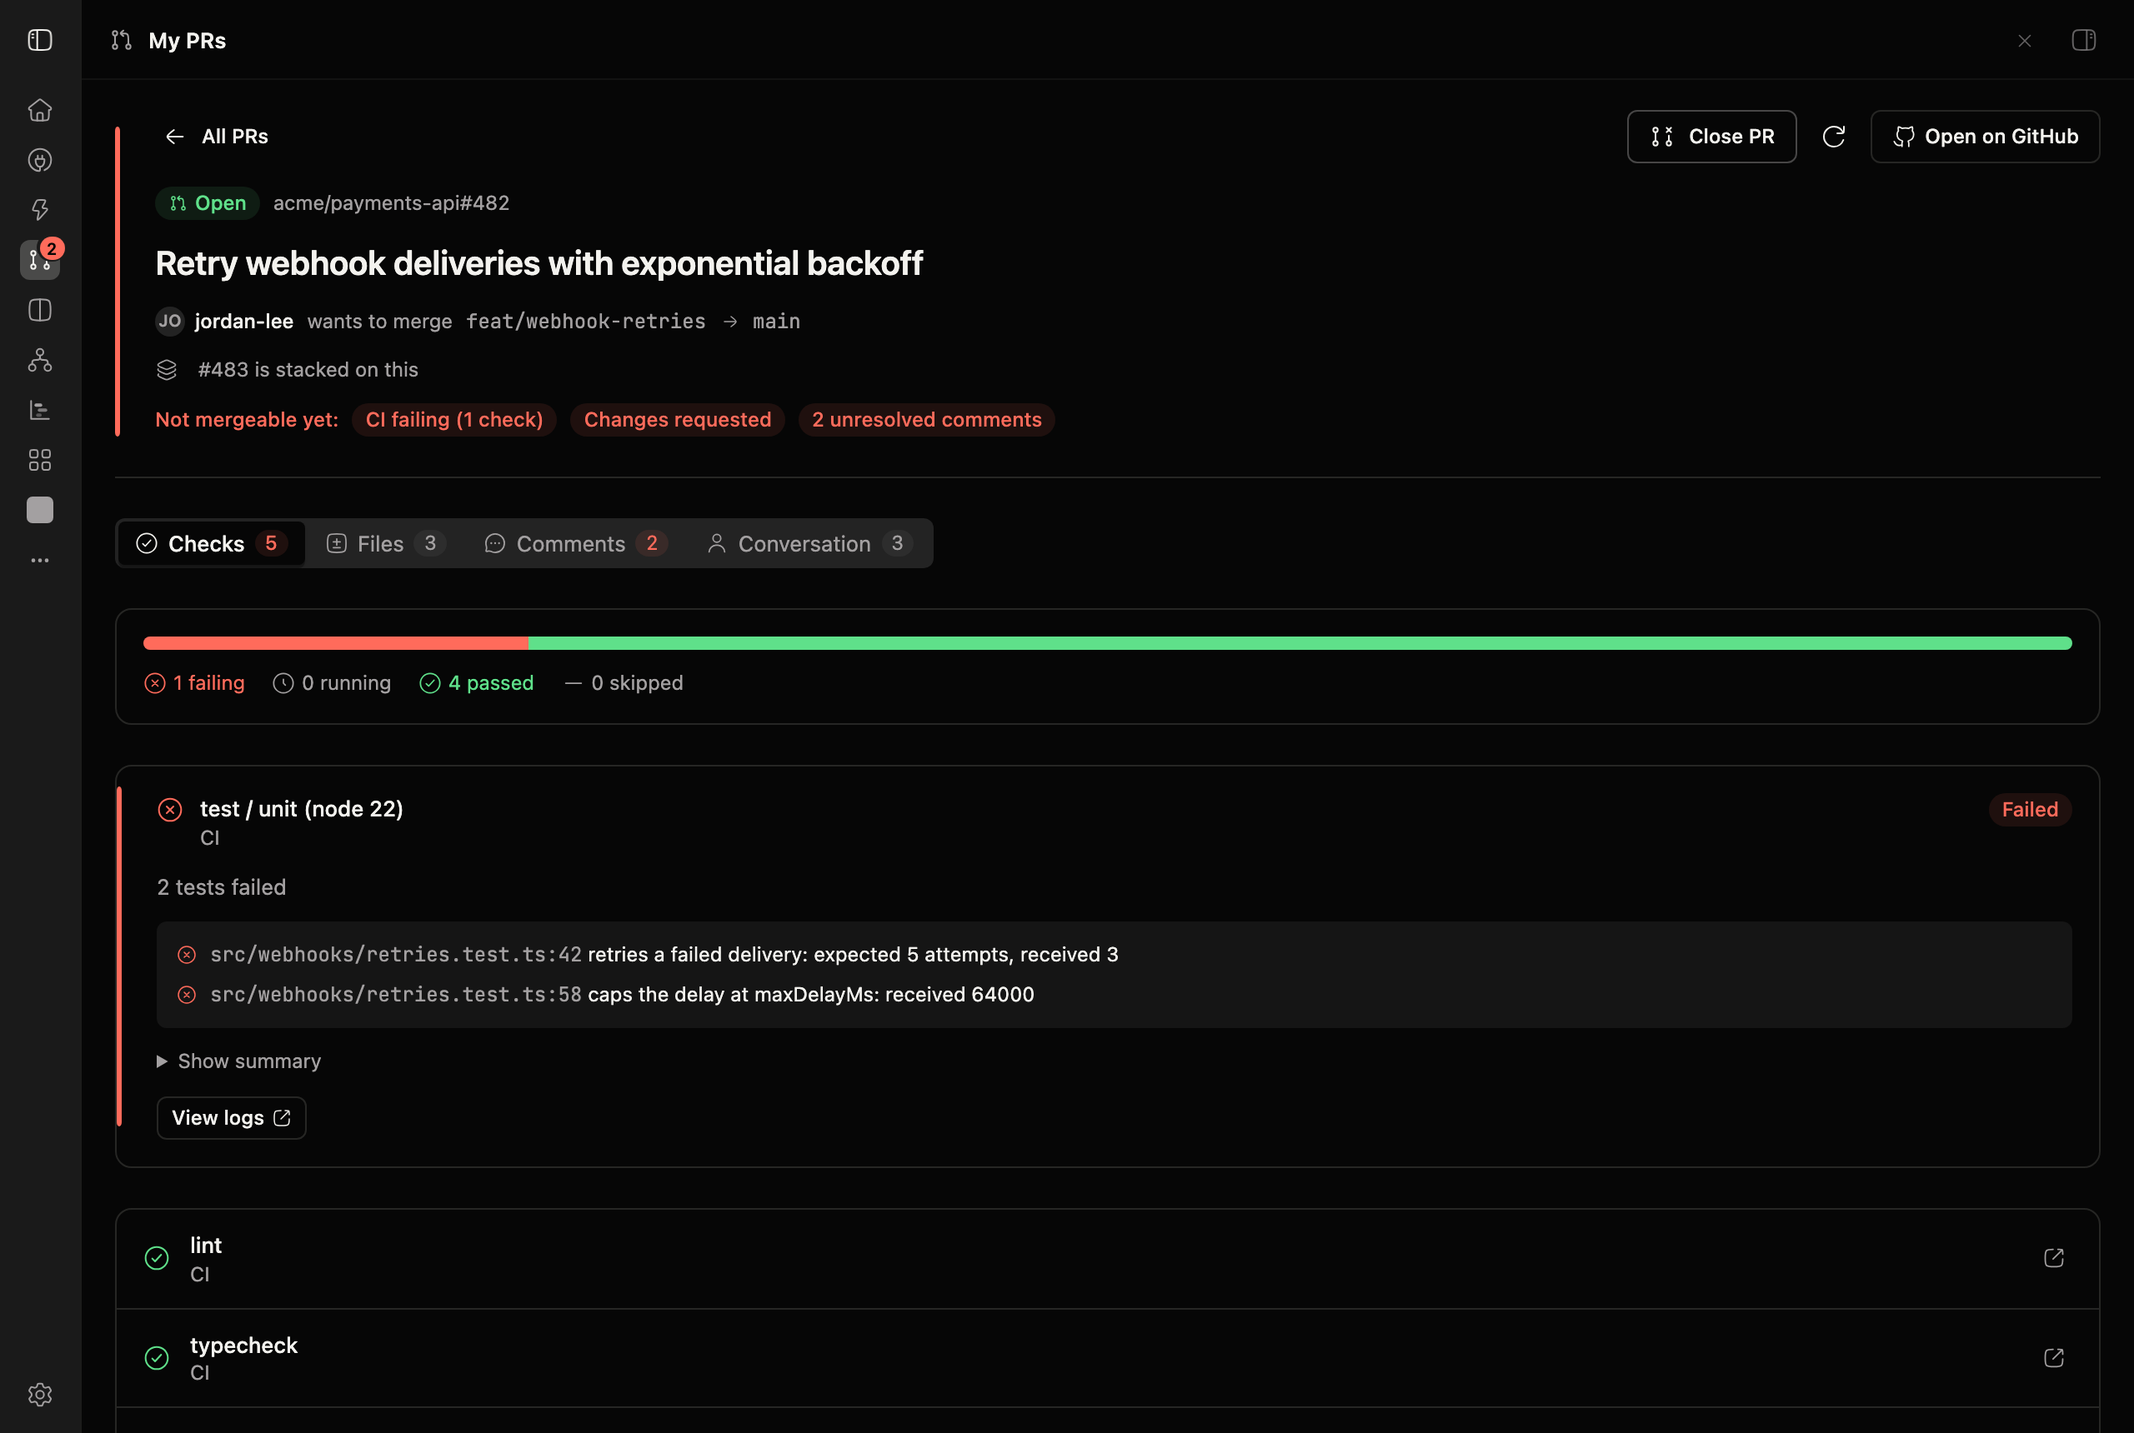
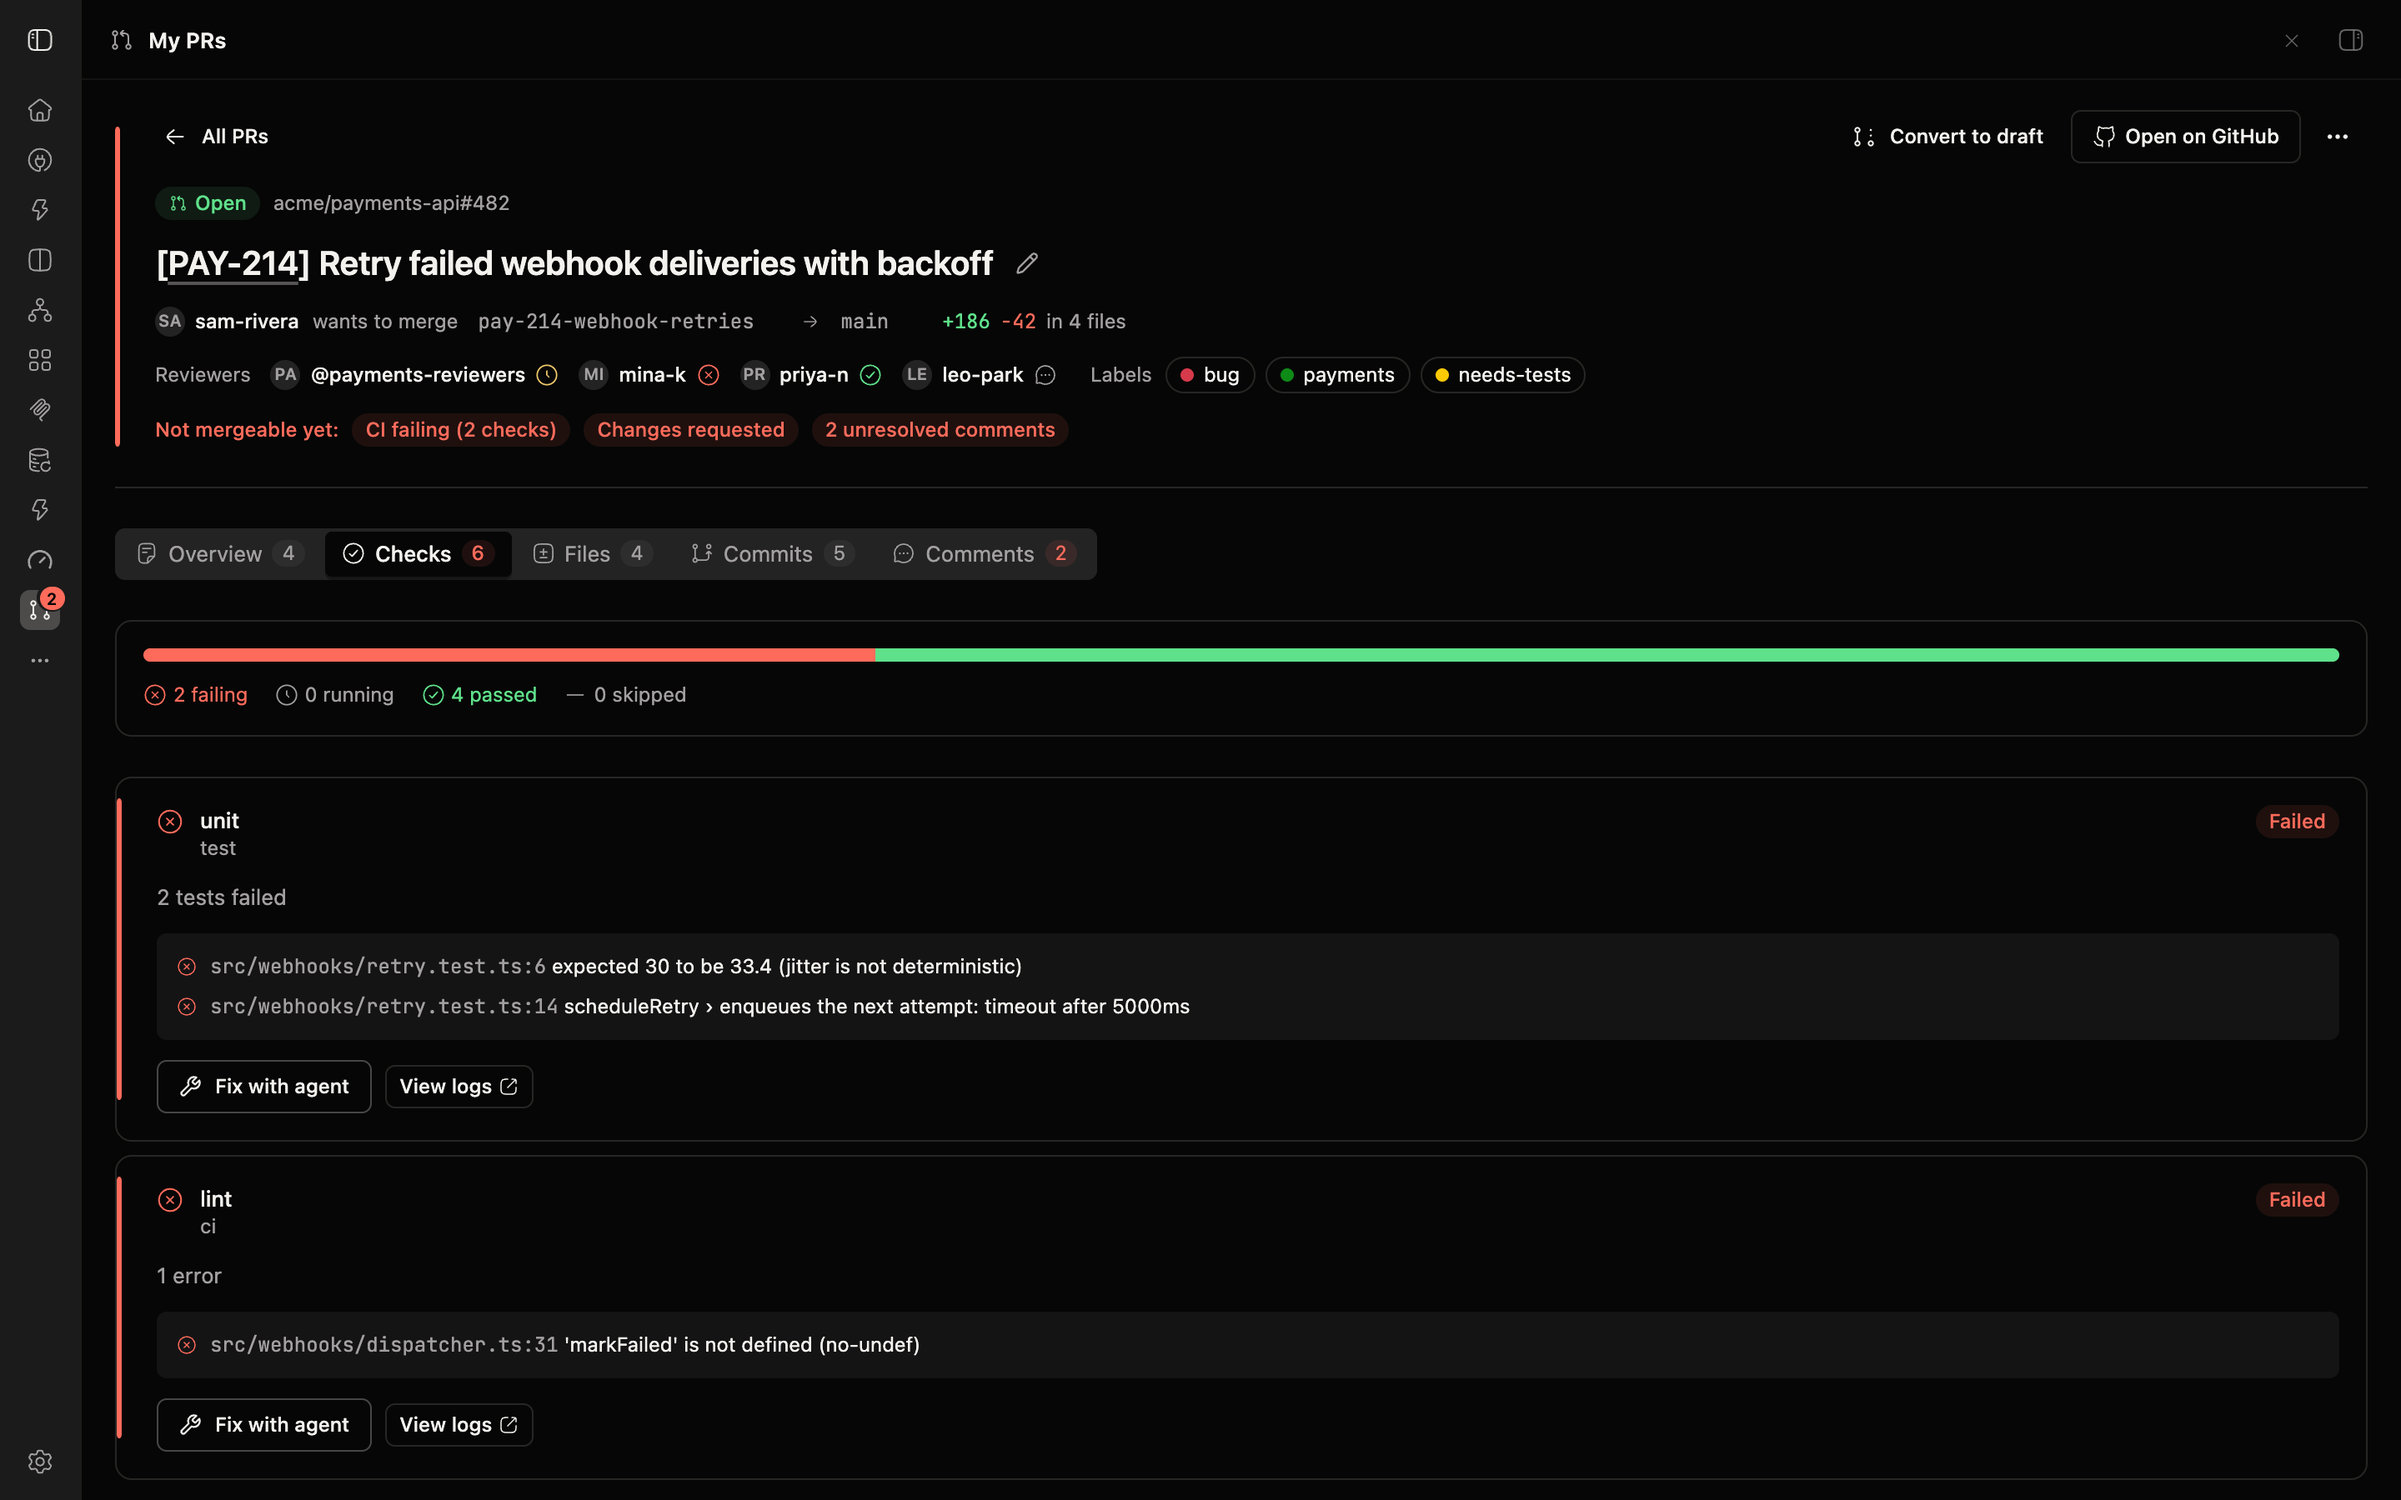
Update plugin entry: bb-github-pr-dashboard (v0.3.2) (#862)
Automated note from a Claude Code agent, posted on behalf of the marketplace maintainer.

Exact selected plugin source installs and loads, required format passes, and no malware or author self-curation was found. Current-head CI verified green.

diff --git a/overview/bb-github-pr-dashboard.md b/overview/bb-github-pr-dashboard.md
@@ -3,36 +3,39 @@ A **My PRs** page in the bb navigation rail for every pull request (PR) you are 
 ## The list
 
 - **Open**, **Review requested** (you or a team you are on), **Reviewed**, **Assigned**, **Merged** and **Closed** tabs with counts, grouped by repository, newest first.
-- Each open PR leads with what blocks it: draft, stacked on another PR, merge conflicts, failing CI with the failing jobs named, CI running, changes requested, unresolved comments, or waiting on a review. A coloured stripe shows the worst one.
+- Each open PR shows +/- lines and leads with what blocks it: draft, stacked on another PR, merge conflicts, failing CI with the failing jobs named, CI running, changes requested, unresolved comments, or waiting on a review. A coloured stripe shows the worst one.
 - **Reviewed** keeps open PRs you reviewed with your verdict, and turns amber when the author pushes after your review or it was dismissed, so you know to look again. A re-requested review moves back to Review requested.
-- Search by title, #number, repository or author. Hide repositories per tab (Select all, Deselect all), fold a repository, or Collapse all; both are remembered.
-- On Merged and Closed, search and the filter reach your whole history (up to GitHub search's 1,000 results).
-- Keys: j and k move between PRs, Enter opens one, / searches. Coming back returns you to where you were.
-- A github.com PR link clicked anywhere in bb (an agent's message, a thread's Info tab) opens here, even if it is not in your lists, or on GitHub if it cannot load.
+- Search by title, #number, repo or author. Hide repos per tab, fold a repo, or Collapse all; all remembered.
+- On Merged and Closed, search and the filter reach your whole history (up to 1,000).
+- Keys: j and k move between PRs, Enter opens one, / searches; coming back keeps your place.
+- A github.com PR link clicked anywhere in bb opens here, even if it is not in your lists, or on GitHub if it cannot load.
 
 ## A pull request
 
-- A header with its state, branches, place in a stack, and blockers as the headline. Previous and Next (or [ and ]) step through the list as you left it.
+- A header with its state, branches (click to copy), +/- lines, reviewers, labels, place in a stack, and blockers as the headline; a pencil edits the title. [ and ] step to the previous and next PR.
+- **Overview** first: the description (a pencil edits it), then comments and reviews, with a box for yours.
 - **Checks** by pipeline and job, failing first, with error annotations and log links.
 - **Files**: a file list beside the diff, syntax highlighting inline or side by side, and threads under their lines. Press + or select line numbers (Shift-click or drag for a range) to comment; post one comment or start a private review and finish it as Comment, Approve or Request changes. j and k move between files, n and p between unresolved comments.
-- **Comments**: unresolved first, each with its diff, every reply, who it waits on, and Show in diff. Reply right there.
-- **Fix with agent** on each unresolved thread and failed job hands the PR, its branch and the comment or job errors to the bb thread on that branch, or opens a filled-in New thread in that repository's project.
-- **Conversation**: description, comments and reviews in order, as Markdown, with a box for yours.
-- Close an open PR (with a confirm step) or reopen a closed one.
+- **Commits** with CI, marking those since your review.
+- **Comments**: unresolved first, each with its diff, every reply, who it waits on, and Show in diff. Reply, or delete your own.
+- **Fix with agent** on each unresolved thread and failed job sends the comment or job errors to the bb thread on the PR's branch, or a filled-in New thread in its project (matched by git remote or name).
+- A menu to link the PR to a thread, ask about it, explain it, fix all findings, copy it or close it.
+- Jira keys open in bb's My Jira plugin when it runs, else on your Jira site.
+- Mark your draft Ready for review (or back), close an open PR (with a confirm step), or reopen one.
 
 ## Alerts
 
-- Every 5 minutes (you can change this), the plugin checks your open PRs and alerts you when a CI job starts failing or someone else comments or reviews.
-- Each alert shows as a bb toast, a count on the **My PRs** icon and a "New since you last looked" list, plus one notification per check through bb's Push notifications plugin (desktop, web, phones).
-- The plugin settings (the bell on My PRs) choose what alerts you and how, the interval, review bots to ignore, and send a test. Hiding a repository does not mute its alerts.
+- Every 5 minutes (adjustable), the plugin checks your open PRs and alerts you when a CI job starts failing or someone else comments or reviews.
+- Each alert shows as a toast, a count on **My PRs** and a "New since you last looked" list, plus one notification per check through bb's Push notifications plugin.
+- The settings (the bell on My PRs) pick what alerts you and how, the interval and bots to ignore.
 
 ## How it works
 
-Requests go to GitHub only for what you open (a tab, a PR, its Files, the history when you filter it) and for alert checks, all from the bb server. Nothing is written to GitHub except what you send. Alerts stay in this plugin's storage on your bb server; notifications pass each alert's headline and PR title to the Push notifications plugin, which can forward them to phones.
+Requests go to GitHub, from the bb server, only for what you open and for alert checks. Nothing is written to GitHub except what you send. Alerts stay on your bb server; notifications pass each alert's headline and PR title to Push notifications, which can forward them to phones.
 
 ## Requirements
 
-- A GitHub account. By default the plugin uses the [GitHub CLI](https://cli.github.com) login on the machine running bb (`gh auth login`), so each user sees their own PRs.
+- A GitHub account. By default the plugin uses the [GitHub CLI](https://cli.github.com) login on the machine running bb (`gh auth login`); with several gh accounts, pick one on My PRs.
 - Or a personal access token: `repo` scope (classic), or Pull requests read and write plus Checks read (fine-grained), authorized for SAML SSO organizations. Write access is used only when you click.
 - Alerts run while the bb server runs. Notifications need bb's Push notifications plugin; desktop and web banners appear while a bb window is open.
 - github.com only; GitHub Enterprise Server is not supported yet.
